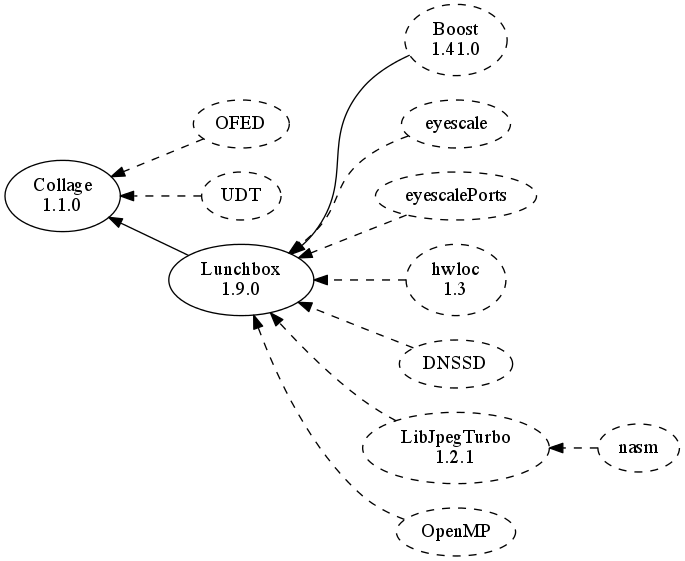
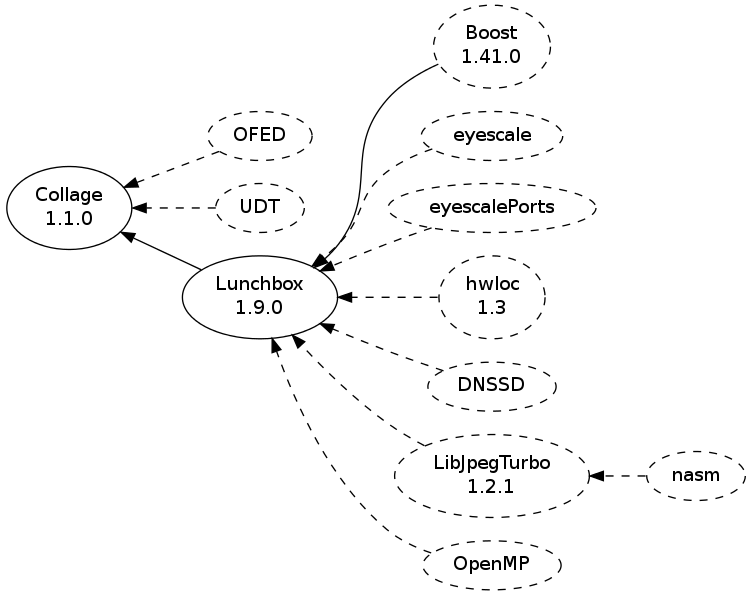
Update dependency images

diff --git a/index.html b/index.html
@@ -1,16 +1,17 @@
 <!DOCTYPE HTML PUBLIC "-//W3C//DTD HTML 4.01 Transitional//ENhttp://www.w3.org/TR/html4/loose.dtd">
 <html>
   <head>
-    <title>eyescale API Documentation</title>
+    <title>Eyescale API Documentation</title>
     <link rel="stylesheet" href="CMake/github.css" type="text/css">  </head>
   <body>
   <h1>API Documentation</h1>  <table>
-    <tr><th>Project</th><th colspan="5">Versions</th>    <tr><th><a href="https://github.com/eyescale/Collage">Collage</a></th><td><a href="Collage-1.1/index.html">1.1</a></td><td><a href="Collage-1.0/index.html">1.0</a></td><td><a href="Collage-0.6/index.html">0.6</a></td><th colspan="2"></th></tr>
-    <tr><th><a href="https://github.com/eyescale/Equalizer">Equalizer</a></th><td><a href="Equalizer-1.7/index.html">1.7</a></td><td><a href="Equalizer-1.6/index.html">1.6</a></td><td><a href="Equalizer-1.4/index.html">1.4</a></td><td><a href="Equalizer-1.2/index.html">1.2</a></td><td><a href="Equalizer-1.0/index.html">1.0</a></td></tr>
-    <tr><th><a href="https://github.com/eyescale/GLStats">GLStats</a></th><td><a href="GLStats-0.1/index.html">0.1</a></td><th colspan="4"></th></tr>
-    <tr><th><a href="https://github.com/eyescale/Lunchbox">Lunchbox</a></th><td><a href="Lunchbox-1.9/index.html">1.9</a></td><td><a href="Lunchbox-1.8/index.html">1.8</a></td><td><a href="Lunchbox-1.6/index.html">1.6</a></td><td><a href="Lunchbox-1.4/index.html">1.4</a></td><th colspan="1"></th></tr>
-    <tr><th><a href="https://github.com/eyescale/hwsd">hwsd</a></th><td><a href="hwsd-1.0/index.html">1.0</a></td><td><a href="hwsd-0.1/index.html">0.1</a></td><th colspan="3"></th></tr>
-    <tr><th><a href="https://github.com/eyescale/vmmlib">vmmlib</a></th><td><a href="vmmlib-1.6/index.html">1.6</a></td><td><a href="vmmlib-1.4/index.html">1.4</a></td><th colspan="3"></th></tr>
+    <tr><th>Project</th><th colspan="5">Versions</th><th>Status</th></tr>
+    <tr><th><a href="https://github.com/Eyescale/Collage">Collage</a></th><td><a href="Collage-1.1/index.html">1.1</a></td><td><a href="Collage-1.0/index.html">1.0</a></td><td><a href="Collage-0.6/index.html">0.6</a></td><th colspan="2"></th><th><a href="https://travis-ci.org/Eyescale/Collage"><img src="https://travis-ci.org/Eyescale/Collage.png"></a></th></tr>
+    <tr><th><a href="https://github.com/Eyescale/Equalizer">Equalizer</a></th><td><a href="Equalizer-1.7/index.html">1.7</a></td><td><a href="Equalizer-1.6/index.html">1.6</a></td><td><a href="Equalizer-1.4/index.html">1.4</a></td><td><a href="Equalizer-1.2/index.html">1.2</a></td><td><a href="Equalizer-1.0/index.html">1.0</a></td><th><a href="https://travis-ci.org/Eyescale/Equalizer"><img src="https://travis-ci.org/Eyescale/Equalizer.png"></a></th></tr>
+    <tr><th><a href="https://github.com/Eyescale/GLStats">GLStats</a></th><td><a href="GLStats-0.1/index.html">0.1</a></td><th colspan="4"></th><th><a href="https://travis-ci.org/Eyescale/GLStats"><img src="https://travis-ci.org/Eyescale/GLStats.png"></a></th></tr>
+    <tr><th><a href="https://github.com/Eyescale/Lunchbox">Lunchbox</a></th><td><a href="Lunchbox-1.9/index.html">1.9</a></td><td><a href="Lunchbox-1.8/index.html">1.8</a></td><td><a href="Lunchbox-1.6/index.html">1.6</a></td><td><a href="Lunchbox-1.4/index.html">1.4</a></td><th colspan="1"></th><th><a href="https://travis-ci.org/Eyescale/Lunchbox"><img src="https://travis-ci.org/Eyescale/Lunchbox.png"></a></th></tr>
+    <tr><th><a href="https://github.com/Eyescale/hwsd">hwsd</a></th><td><a href="hwsd-1.0/index.html">1.0</a></td><td><a href="hwsd-0.1/index.html">0.1</a></td><th colspan="3"></th><th><a href="https://travis-ci.org/Eyescale/hwsd"><img src="https://travis-ci.org/Eyescale/hwsd.png"></a></th></tr>
+    <tr><th><a href="https://github.com/Eyescale/vmmlib">vmmlib</a></th><td><a href="vmmlib-1.6/index.html">1.6</a></td><td><a href="vmmlib-1.4/index.html">1.4</a></td><th colspan="3"></th><th><a href="https://travis-ci.org/Eyescale/vmmlib"><img src="https://travis-ci.org/Eyescale/vmmlib.png"></a></th></tr>
   </table>
   <h1>Project Dependencies</h1>  <a href="images/all.png"><img src="images/all.png" width=100%></a>  </body>
 </html>
